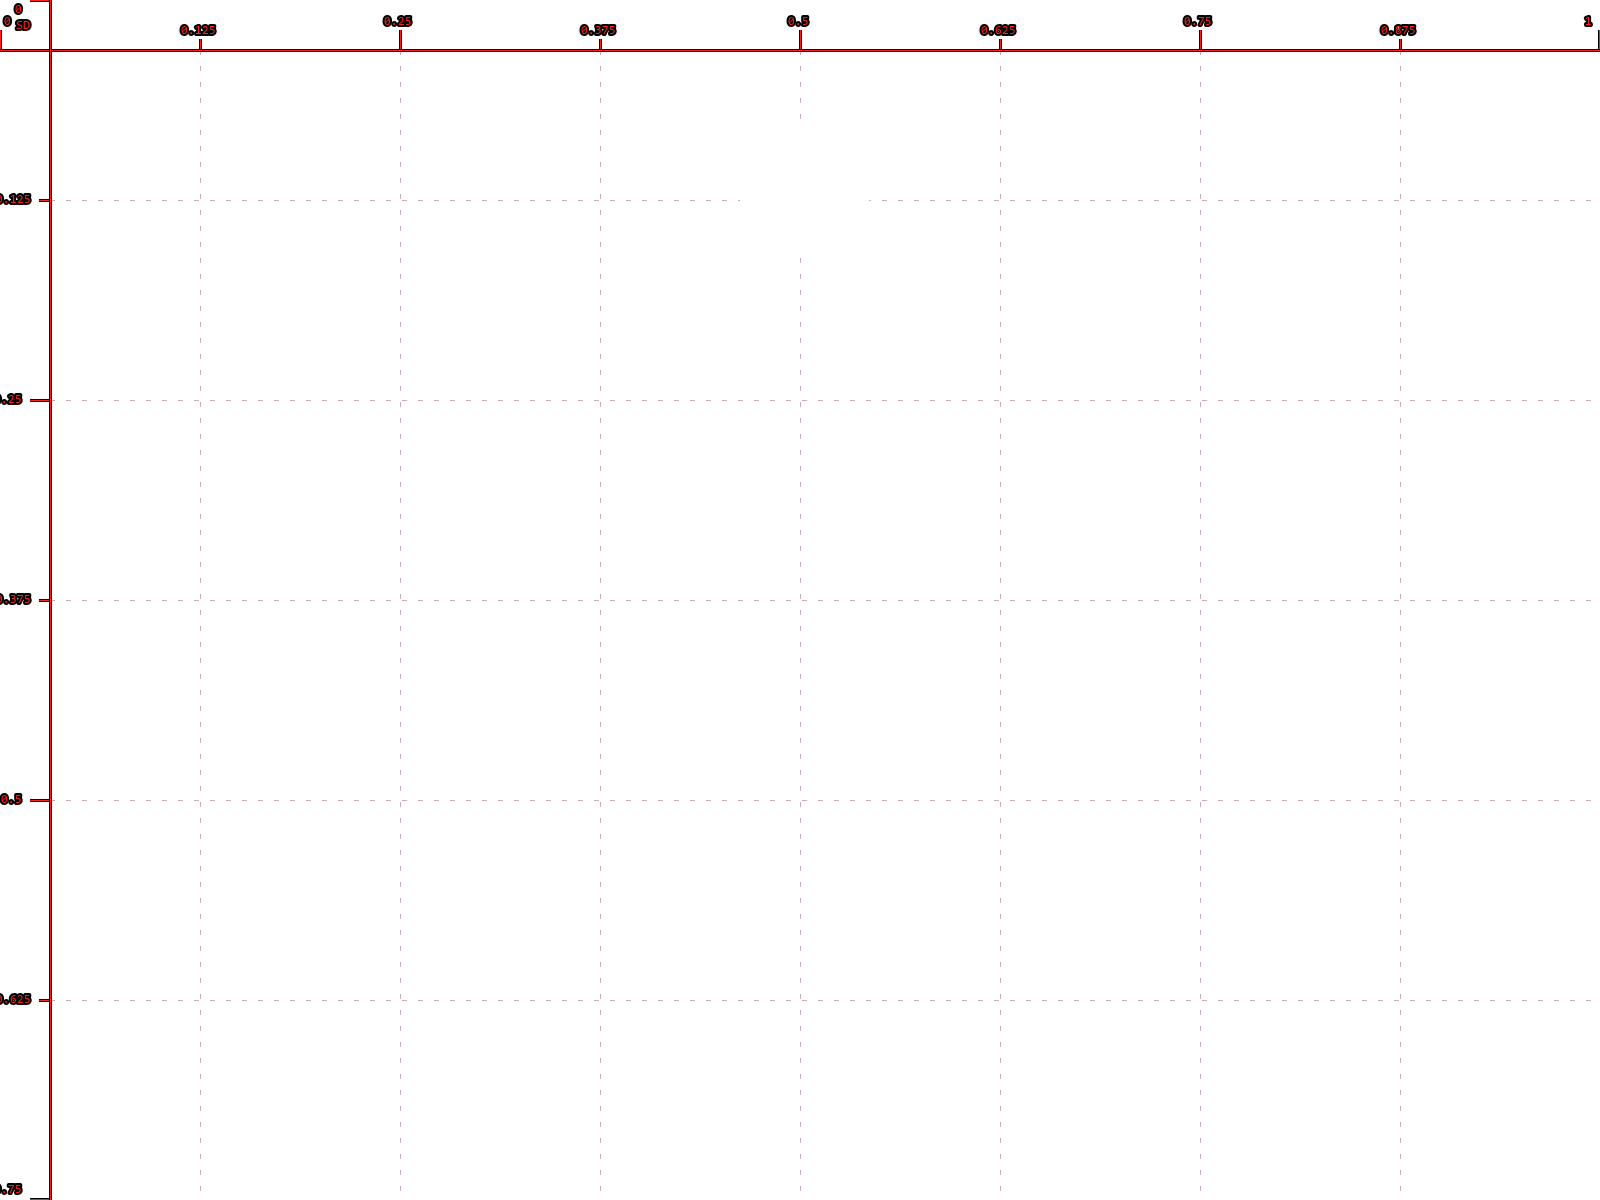
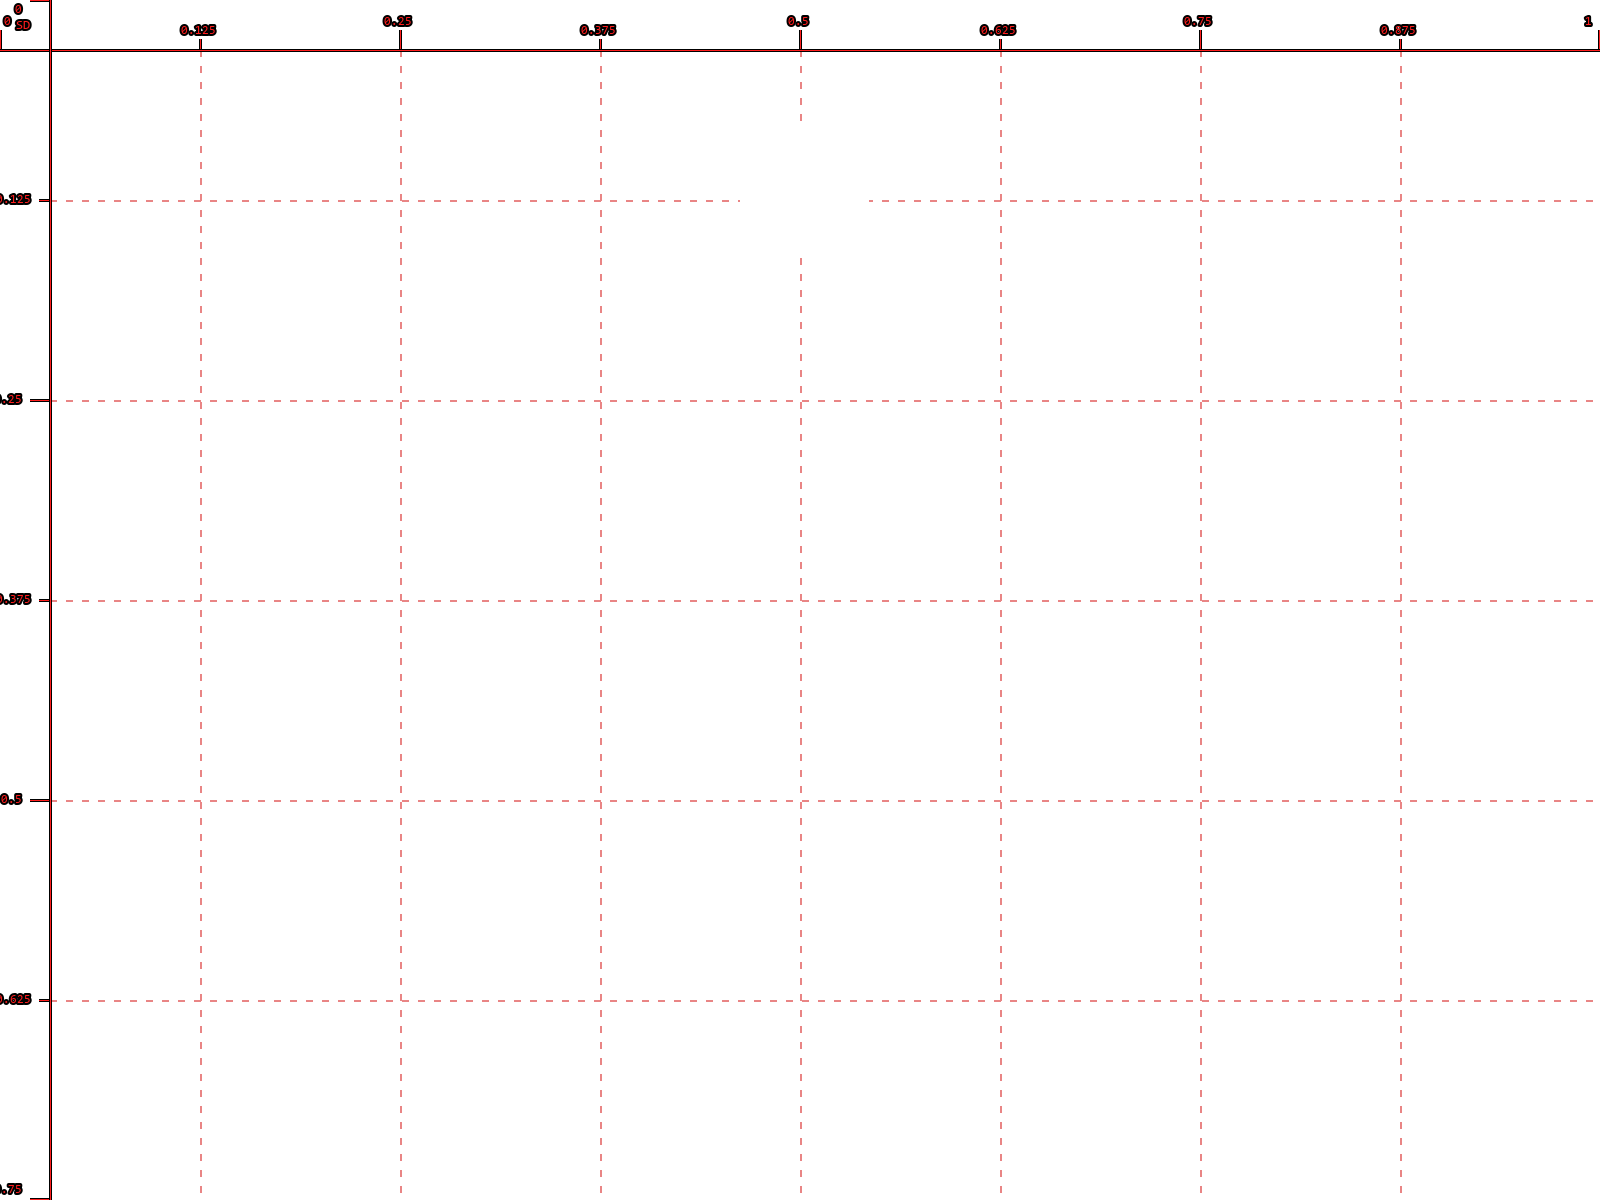
new ruler

diff --git a/tools/gen_ruler.py b/tools/gen_ruler.py
@@ -45,7 +45,7 @@ ROSE_MARGIN  = 10
 # ── Colors (R, G, B, A) ────────────────────────────────────────────────────────
 TICK_COLOR  = (255, 30,  30,  255)   # red ticks / text
 OUTLINE_CLR = (0,   0,   0,  255)   # black outline
-GUIDE_CLR   = (100, 0,   0,   80)   # very faint dark-red guide lines
+GUIDE_CLR   = (220, 60,  60,  160)  # bright red guide lines
 
 
 def load_font(size):
@@ -87,18 +87,18 @@ def main():
 
     for i in range(1, n_h):
         px = i * TICK_PX
-        dash_len, gap_len = 4, 12
+        dash_len, gap_len = 6, 10
         y = RULER_SIZE
         while y < SCREEN_H:
-            g.line([(px, y), (px, min(y + dash_len, SCREEN_H))], fill=GUIDE_CLR, width=1)
+            g.line([(px, y), (px, min(y + dash_len, SCREEN_H))], fill=GUIDE_CLR, width=2)
             y += dash_len + gap_len
 
     for i in range(1, n_v):
         py = i * TICK_PX
-        dash_len, gap_len = 4, 12
+        dash_len, gap_len = 6, 10
         x = RULER_SIZE
         while x < SCREEN_W:
-            g.line([(x, py), (min(x + dash_len, SCREEN_W), py)], fill=GUIDE_CLR, width=1)
+            g.line([(x, py), (min(x + dash_len, SCREEN_W), py)], fill=GUIDE_CLR, width=2)
             x += dash_len + gap_len
 
     img = Image.alpha_composite(img, overlay)
